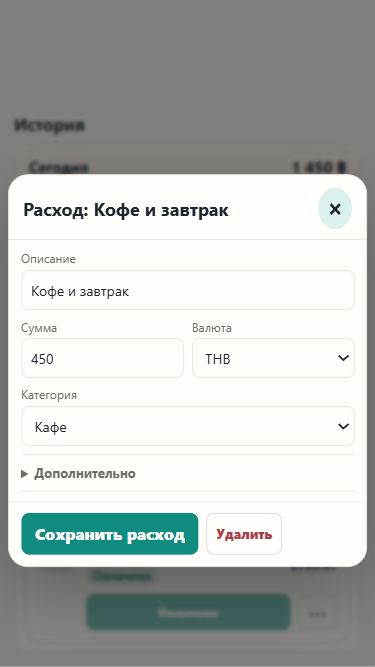
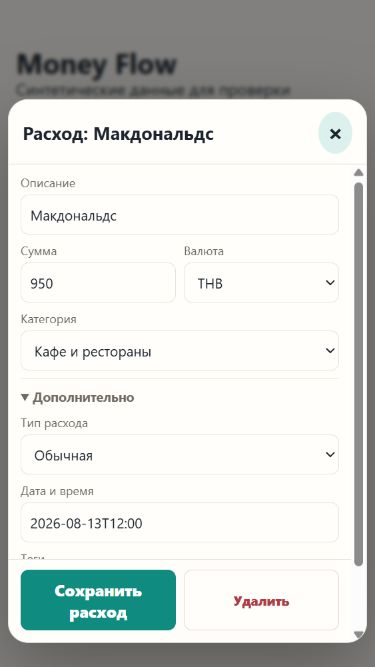
Polish Mini App edit modal geometry and actions (#165)
* Polish Mini App edit modal actions

* Refresh modal follow-up screenshots

---------

diff --git a/apps/miniapp/src/app.js b/apps/miniapp/src/app.js
@@ -1812,6 +1812,14 @@ function renderPlannedForm(item = {}, { mode = "create", sourcePlannedExpenseId 
       <div class="edit-modal__advanced-fields">${plannedTagsField}</div>
     </details>
   ` : plannedTagsField;
+  const plannedActions = mode === "edit" ? `
+    <button type="submit">${submitLabel}</button>
+    <button type="button" class="danger-button" data-disable-planned-edit>${t("plan.disableExisting")}</button>
+  ` : `
+    <button type="submit">${submitLabel}</button>
+    <button type="button" class="ghost-button" id="resetPlannedForm">${t("plan.reset")}</button>
+    <button type="button" class="ghost-button" id="cancelPlannedForm">${t("actions.close")}</button>
+  `;
   form.innerHTML = `
     ${mode === "edit" ? "" : `<h3>${title}</h3>`}
     ${mode === "recreate" ? `
@@ -1868,10 +1876,8 @@ function renderPlannedForm(item = {}, { mode = "create", sourcePlannedExpenseId 
       </label>
     </div>
     ${plannedTags}
-    <div class="button-row">
-      <button type="submit">${submitLabel}</button>
-      <button type="button" class="ghost-button" id="resetPlannedForm">${t("plan.reset")}</button>
-      <button type="button" class="ghost-button" id="cancelPlannedForm">${t("actions.close")}</button>
+    <div class="button-row edit-modal__actions">
+      ${plannedActions}
     </div>
   `;
   form.onsubmit = (event) => savePlanned(event, {
@@ -1880,11 +1886,11 @@ function renderPlannedForm(item = {}, { mode = "create", sourcePlannedExpenseId 
     sourcePlannedExpenseId,
     recreateSession
   });
-  form.querySelector("#resetPlannedForm").addEventListener("click", () => {
-    if (mode === "edit") renderPlannedForm(item, { mode: "edit" });
-    else renderPlannedForm();
+  form.querySelector("[data-disable-planned-edit]")?.addEventListener("click", (event) => {
+    disablePlanned(item, event.currentTarget, { closeModal: true });
   });
-  form.querySelector("#cancelPlannedForm").addEventListener("click", closeAndResetPlannedForm);
+  form.querySelector("#resetPlannedForm")?.addEventListener("click", () => renderPlannedForm());
+  form.querySelector("#cancelPlannedForm")?.addEventListener("click", closeAndResetPlannedForm);
   form.querySelector('[name="planned-recurrence"]').addEventListener("change", syncPlannedRecurrenceFields);
   syncPlannedRecurrenceFields();
 }
@@ -2059,6 +2065,34 @@ function plannedPaymentProgressLabel(item, status = plannedPaymentStatus(item), 
   return status === "paid" ? progress : `${progress} · ${statusLabel}`;
 }
 
+async function disablePlanned(item, button, { closeModal = false } = {}) {
+  if (!item) return;
+  try {
+    await runPlannedDisable({
+      button,
+      item,
+      confirm: window.confirm.bind(window),
+      disableRequest: (id) => api(`/api/planned-expenses/${id}`, {
+        method: "DELETE",
+        body: { telegramUserId }
+      }),
+      loadDashboard: async () => {
+        if (closeModal) closeEditModal();
+        await loadDashboard();
+        if (closeModal) editModal.restore();
+      },
+      afterDashboard: refreshArchiveAfterDisable,
+      showResult: showToast,
+      language: currentLanguage,
+      createTranslator,
+      translate: t,
+      formatMoney
+    });
+  } catch (error) {
+    showError(error);
+  }
+}
+
 function bindPlannedActions(container, items) {
   container.querySelectorAll("[data-edit-planned]").forEach((button) => {
     button.addEventListener("click", () => {
@@ -2069,27 +2103,7 @@ function bindPlannedActions(container, items) {
   container.querySelectorAll("[data-delete-planned]").forEach((button) => {
     button.addEventListener("click", async () => {
       const item = items.find((planned) => String(planned.id) === button.dataset.deletePlanned);
-      if (!item) return;
-      try {
-        await runPlannedDisable({
-          button,
-          item,
-          confirm: window.confirm.bind(window),
-          disableRequest: (id) => api(`/api/planned-expenses/${id}`, {
-            method: "DELETE",
-            body: { telegramUserId }
-          }),
-          loadDashboard,
-          afterDashboard: refreshArchiveAfterDisable,
-          showResult: showToast,
-          language: currentLanguage,
-          createTranslator,
-          translate: t,
-          formatMoney
-        });
-      } catch (error) {
-        showError(error);
-      }
+      await disablePlanned(item, button);
     });
   });
   container.querySelectorAll("[data-pay-planned]").forEach((button) => {
@@ -2216,7 +2230,7 @@ function renderExpenseEditor(expense, options = {}) {
         tags: expense.tags ?? [],
         spent_at: expense.spent_at
       }, "expense", 0)}
-      <div class="button-row">
+      <div class="button-row edit-modal__actions">
         <button type="submit">${t("actions.saveExpense")}</button>
         <button type="button" class="danger-button" data-delete-expense="${escapeAttribute(expense.id)}">${t("actions.delete")}</button>
       </div>

diff --git a/apps/miniapp/test/smokeAssets.test.js b/apps/miniapp/test/smokeAssets.test.js
@@ -23,7 +23,7 @@ test("Mini App keeps app.js and styles.css cache-busters in sync", async () => {
   assert.ok(appVersion, "index.html should version app.js with a ?v= query");
   assert.ok(cssVersion, "index.html should version styles.css with a ?v= query");
   assert.equal(appVersion, cssVersion, "app.js and styles.css cache-busters must stay in sync");
-  assert.equal(appVersion, "20260813-unified-rows-v1");
+  assert.equal(appVersion, "20260813-unified-rows-v2");
   assert.notEqual(appVersion, "20260626-dashboard-v12", "app.js must not keep the stale dashboard-v12 cache-buster");
 });
 
@@ -658,7 +658,7 @@ test("expense and planned edits share one modal without inline scrolling or tab 
 
   assert.match(css, /body\.edit-modal-open\s*{[^}]*overflow:\s*hidden/s);
   assert.match(css, /\.edit-modal-backdrop\s*{[^}]*position:\s*fixed[^}]*inset:\s*0/s);
-  assert.match(css, /\.edit-modal\s*{[^}]*--edit-modal-safe-top:[^;]*--tg-fullscreen-control-extra-top[^;]*;[^}]*top:\s*var\(--edit-modal-safe-top\)[^}]*max-height:\s*calc\(100dvh - var\(--edit-modal-safe-top\) - var\(--edit-modal-safe-bottom\)\)[^}]*overflow:\s*hidden/s);
+  assert.match(css, /\.edit-modal\s*{[^}]*--edit-modal-safe-top:[^;]*--tg-fullscreen-control-extra-top[^;]*;[^}]*top:\s*calc\(var\(--edit-modal-safe-top\) \+ \(\(100dvh - var\(--edit-modal-safe-top\) - var\(--edit-modal-safe-bottom\)\) \/ 2\)\)[^}]*bottom:\s*auto[^}]*height:\s*auto[^}]*max-height:\s*calc\(100dvh - var\(--edit-modal-safe-top\) - var\(--edit-modal-safe-bottom\)\)[^}]*transform:\s*translateY\(-50%\)[^}]*overflow:\s*hidden/s);
   assert.match(css, /\.edit-modal__body\s*{[^}]*overflow-y:\s*auto[^}]*overscroll-behavior:\s*contain/s);
   assert.match(css, /\.edit-modal \.form-stack\s*{[^}]*gap:\s*8px[^}]*padding:\s*0/s);
   assert.match(css, /\.edit-modal__advanced\s*{/);
@@ -766,6 +766,20 @@ test("active planned cards share expense visuals while Pay stays direct and dest
   assert.match(css, /\.planned-expense-card__status--paid\s*{[^}]*color:\s*var\(--green\)/s);
   assert.match(css, /\.planned-expense-card__status--overdue\s*{[^}]*color:\s*var\(--red\)/s);
   assert.match(css, /\.planned-expense-card__main\s*{[^}]*grid-template-columns:\s*38px minmax\(0,\s*1fr\) auto/s);
+});
+
+test("planned edit modal keeps only save and existing disable actions while create can still reset", async () => {
+  const app = await readFile(new URL("../src/app.js", import.meta.url), "utf8");
+  const css = await readFile(new URL("../src/styles.css", import.meta.url), "utf8");
+  const renderForm = app.slice(app.indexOf("function renderPlannedForm"), app.indexOf("function syncPlannedRecurrenceFields"));
+
+  assert.match(renderForm, /mode === "edit"[\s\S]*?data-disable-planned-edit/);
+  assert.match(renderForm, /t\("plan\.disableExisting"\)/);
+  assert.match(renderForm, /mode === "edit"\s*\?[^:]+:\s*`[\s\S]*?id="resetPlannedForm"[\s\S]*?id="cancelPlannedForm"/);
+  assert.doesNotMatch(renderForm, /if \(mode === "edit"\) renderPlannedForm\(item, \{ mode: "edit" \}\)/);
+  assert.match(app, /disablePlanned\(item,\s*event\.currentTarget,\s*\{ closeModal: true \}\)/);
+  assert.match(app, /closeModal[\s\S]*?closeEditModal\(\)[\s\S]*?await loadDashboard\(\)[\s\S]*?editModal\.restore\(\)/);
+  assert.match(css, /\.edit-modal \.edit-modal__actions\s*{[^}]*display:\s*grid[^}]*grid-template-columns:\s*repeat\(2,\s*minmax\(0,\s*1fr\)\)/s);
 });
 
 test("planned disable uses the focused helper and prefers the server-owned month summary", async () => {

diff --git a/apps/miniapp/src/styles.css b/apps/miniapp/src/styles.css
@@ -121,17 +121,18 @@ body.edit-modal-open {
   --edit-modal-safe-top: max(var(--edit-modal-edge), calc(var(--tg-content-safe-area-inset-top, var(--tg-safe-area-inset-top, 0px)) + var(--tg-fullscreen-control-extra-top, 0px)));
   --edit-modal-safe-bottom: max(var(--edit-modal-edge), var(--tg-content-safe-area-inset-bottom, var(--tg-safe-area-inset-bottom, env(safe-area-inset-bottom, 0px))));
   position: fixed;
-  top: var(--edit-modal-safe-top);
+  top: calc(var(--edit-modal-safe-top) + ((100dvh - var(--edit-modal-safe-top) - var(--edit-modal-safe-bottom)) / 2));
   right: var(--edit-modal-edge);
-  bottom: var(--edit-modal-safe-bottom);
+  bottom: auto;
   left: var(--edit-modal-edge);
   z-index: 50;
   display: grid;
   grid-template-rows: auto minmax(0, 1fr);
   width: min(calc(100% - 24px), 520px);
-  height: fit-content;
+  height: auto;
   max-height: calc(100dvh - var(--edit-modal-safe-top) - var(--edit-modal-safe-bottom));
-  margin: auto;
+  margin: 0 auto;
+  transform: translateY(-50%);
   overflow: hidden;
   border: 1px solid var(--line);
   border-radius: 22px;
@@ -224,6 +225,16 @@ body.edit-modal-open {
   padding: 10px 14px calc(12px + max(0px, env(safe-area-inset-bottom)));
   border-top: 1px solid var(--line);
   background: var(--panel);
+}
+
+.edit-modal .edit-modal__actions {
+  display: grid;
+  grid-template-columns: repeat(2, minmax(0, 1fr));
+}
+
+.edit-modal__actions > button {
+  width: 100%;
+  min-width: 0;
 }
 
 @media (max-width: 430px) {

diff --git a/apps/miniapp/test/i18n.test.js b/apps/miniapp/test/i18n.test.js
@@ -48,6 +48,7 @@ test("Mini App translations cover dashboard, plan, history and settings labels",
     "plan.nextPlanned",
     "plan.todayDue",
     "plan.plannedExpenses",
+    "plan.disableExisting",
     "plan.statusPaid",
     "plan.statusUnpaid",
     "plan.statusOverdue",
@@ -110,6 +111,11 @@ test("planned disable UX keys stay in parity for Russian and English", () => {
       assert.ok(translations[language][key].length > 0, `${language}.${key} must not be empty`);
     }
   }
+});
+
+test("planned edit disable action is explicit in Russian and English", () => {
+  assert.equal(createTranslator("ru")("plan.disableExisting"), "Отключить плановую");
+  assert.equal(createTranslator("en")("plan.disableExisting"), "Disable planned");
 });
 
 test("planned archive and recreate UX keys stay in parity for Russian and English", () => {

diff --git a/apps/miniapp/src/i18n.js b/apps/miniapp/src/i18n.js
@@ -202,6 +202,7 @@ export const translations = {
     "plan.statusUnpaid": "Не оплачено",
     "plan.statusOverdue": "Просрочено",
     "plan.plannedExpenses": "Плановые траты",
+    "plan.disableExisting": "Отключить плановую",
     "plan.recurrence": "Повтор",
     "plan.reset": "Очистить",
     "plan.saveNew": "Добавить плановую",
@@ -596,6 +597,7 @@ export const translations = {
     "plan.statusUnpaid": "Unpaid",
     "plan.statusOverdue": "Overdue",
     "plan.plannedExpenses": "Planned expenses",
+    "plan.disableExisting": "Disable planned",
     "plan.recurrence": "Repeat",
     "plan.reset": "Reset",
     "plan.saveNew": "Add planned",

diff --git a/apps/miniapp/src/index.html b/apps/miniapp/src/index.html
@@ -5,7 +5,7 @@
     <meta name="viewport" content="width=device-width, initial-scale=1, viewport-fit=cover" />
     <title>Money Flow</title>
     <script src="https://telegram.org/js/telegram-web-app.js"></script>
-    <link rel="stylesheet" href="/styles.css?v=20260813-unified-rows-v1" />
+    <link rel="stylesheet" href="/styles.css?v=20260813-unified-rows-v2" />
   </head>
   <body data-theme="light">
     <main class="shell">
@@ -567,6 +567,6 @@
     </nav>
 
     <div class="toast hidden" id="toast" role="status" aria-live="polite"></div>
-    <script src="/app.js?v=20260813-unified-rows-v1" type="module"></script>
+    <script src="/app.js?v=20260813-unified-rows-v2" type="module"></script>
   </body>
 </html>

diff --git a/docs/UI_PRINCIPLES.md b/docs/UI_PRINCIPLES.md
@@ -23,7 +23,8 @@ Money Flow UI should feel light and direct. Favor quick comprehension over dense
 
 - Edit saved expenses and active planned payments in the shared modal shell over the screen where editing started. Closing, saving, or deleting must not switch tabs, reset History filters, or discard the user's scroll position.
 - Keep expense Save and confirmed Delete actions inside the modal. Use the modal header close control for cancel without saving instead of a redundant footer Close action.
-- On narrow screens, keep the page behind the modal inert and fixed. Let long forms scroll inside the modal while its header and actions remain inside Telegram content-safe-area, fullscreen-control, and device-safe-area bounds.
+- On narrow screens, keep the page behind the modal inert and fixed. Size the modal to its content and center it within the Telegram-safe usable area; when a form reaches the safe maximum height, let its body scroll while the header and actions remain inside the content-safe-area, fullscreen-control, and device-safe-area bounds.
+- In planned-payment edit mode, keep only Save and confirmed Disable inside the modal; Reset and footer Close belong only to create/recreate flows, while the header close control cancels editing.
 
 ## Planned Payments
 
